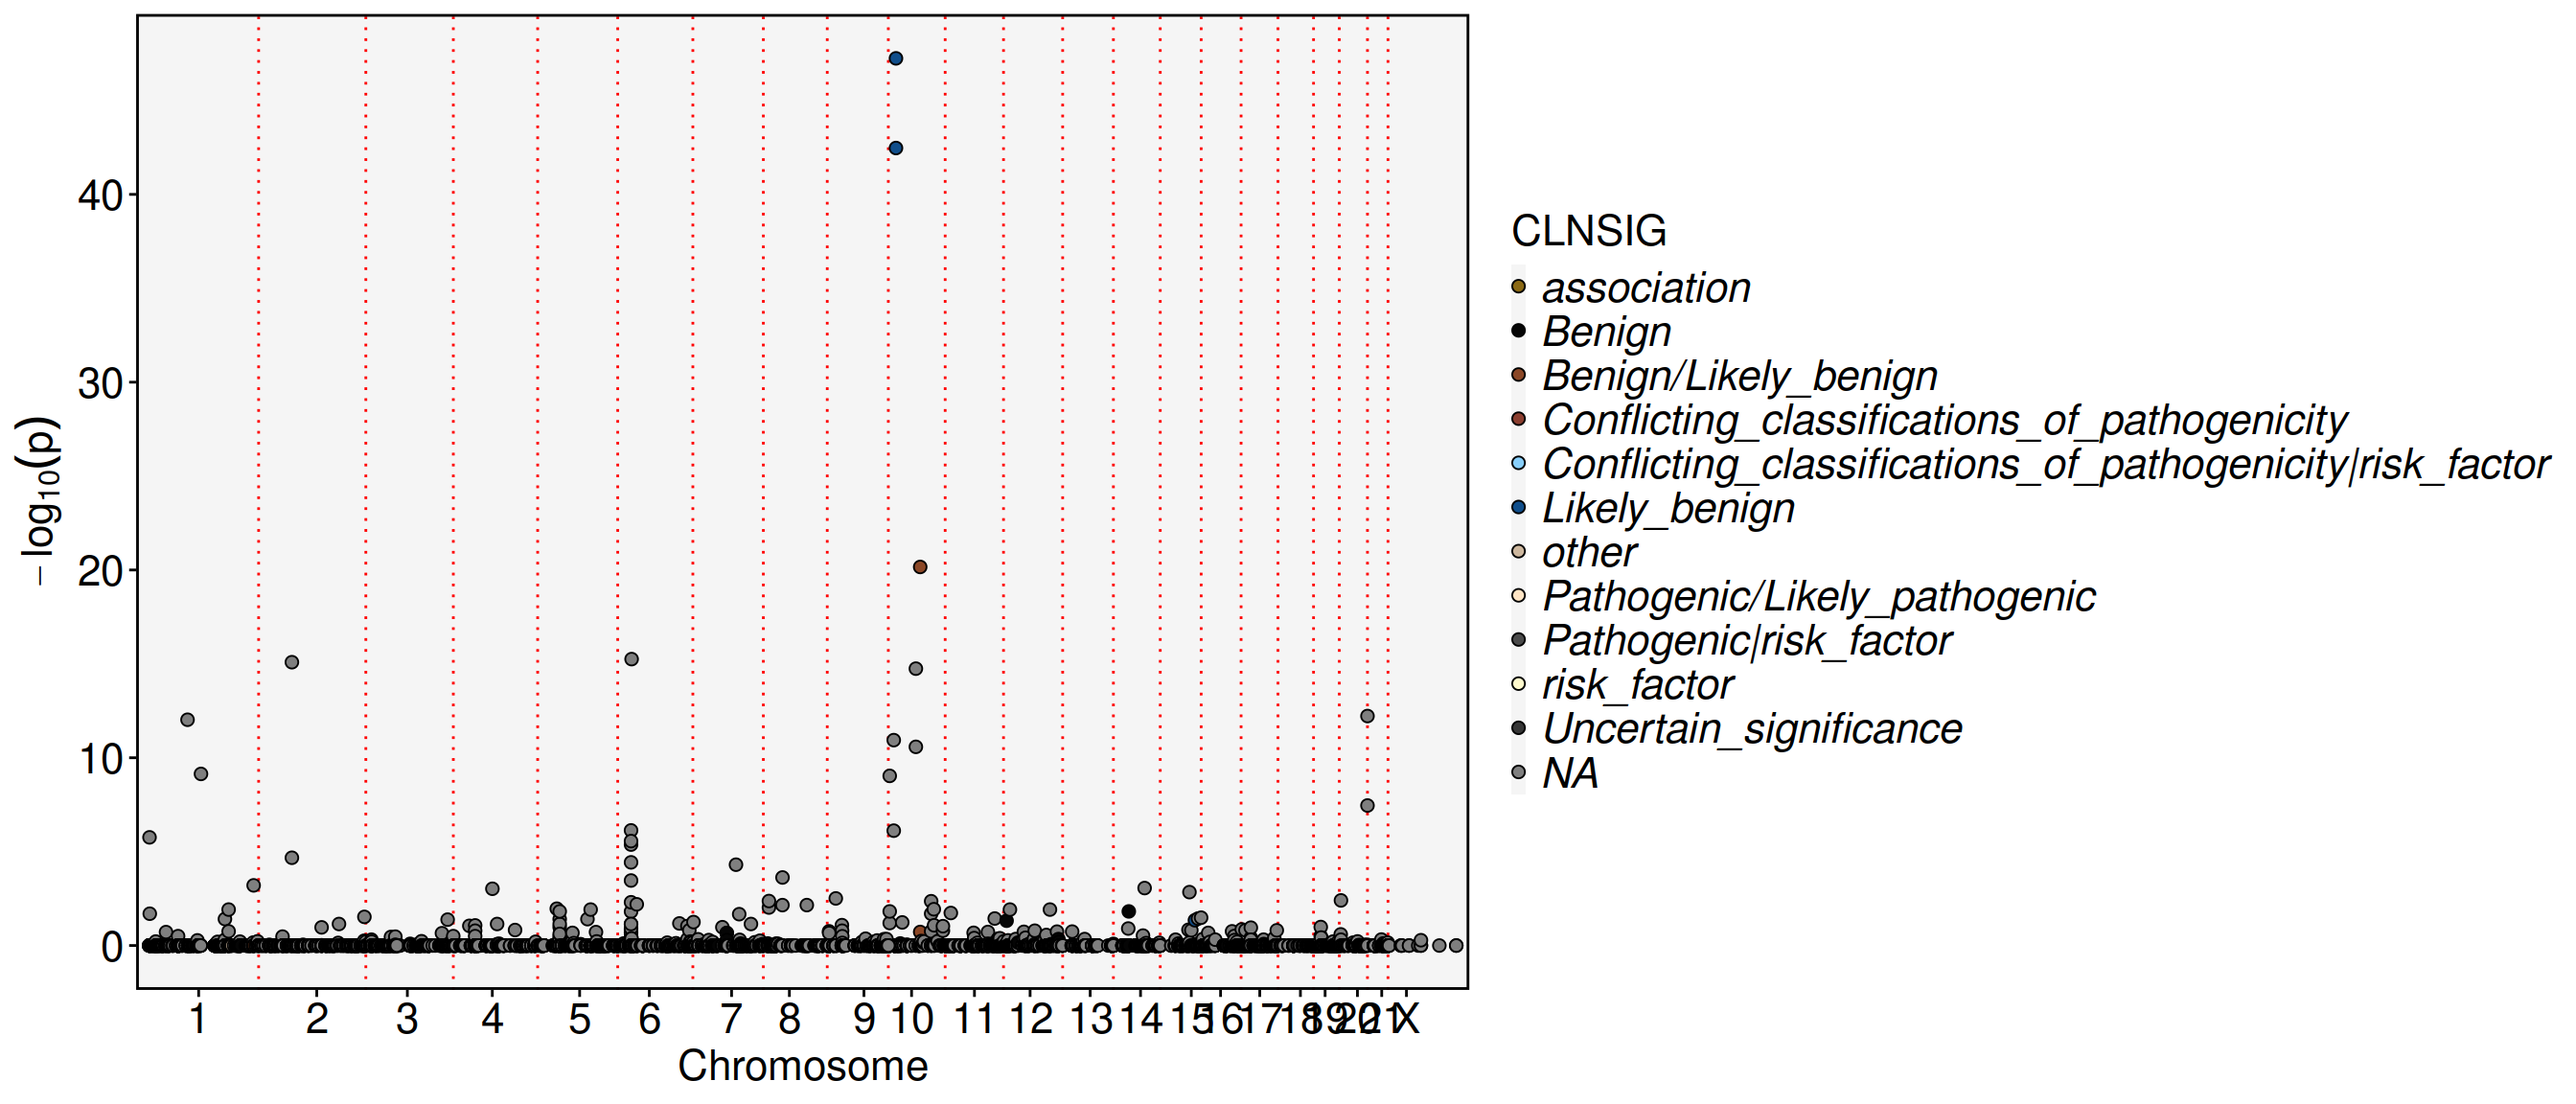
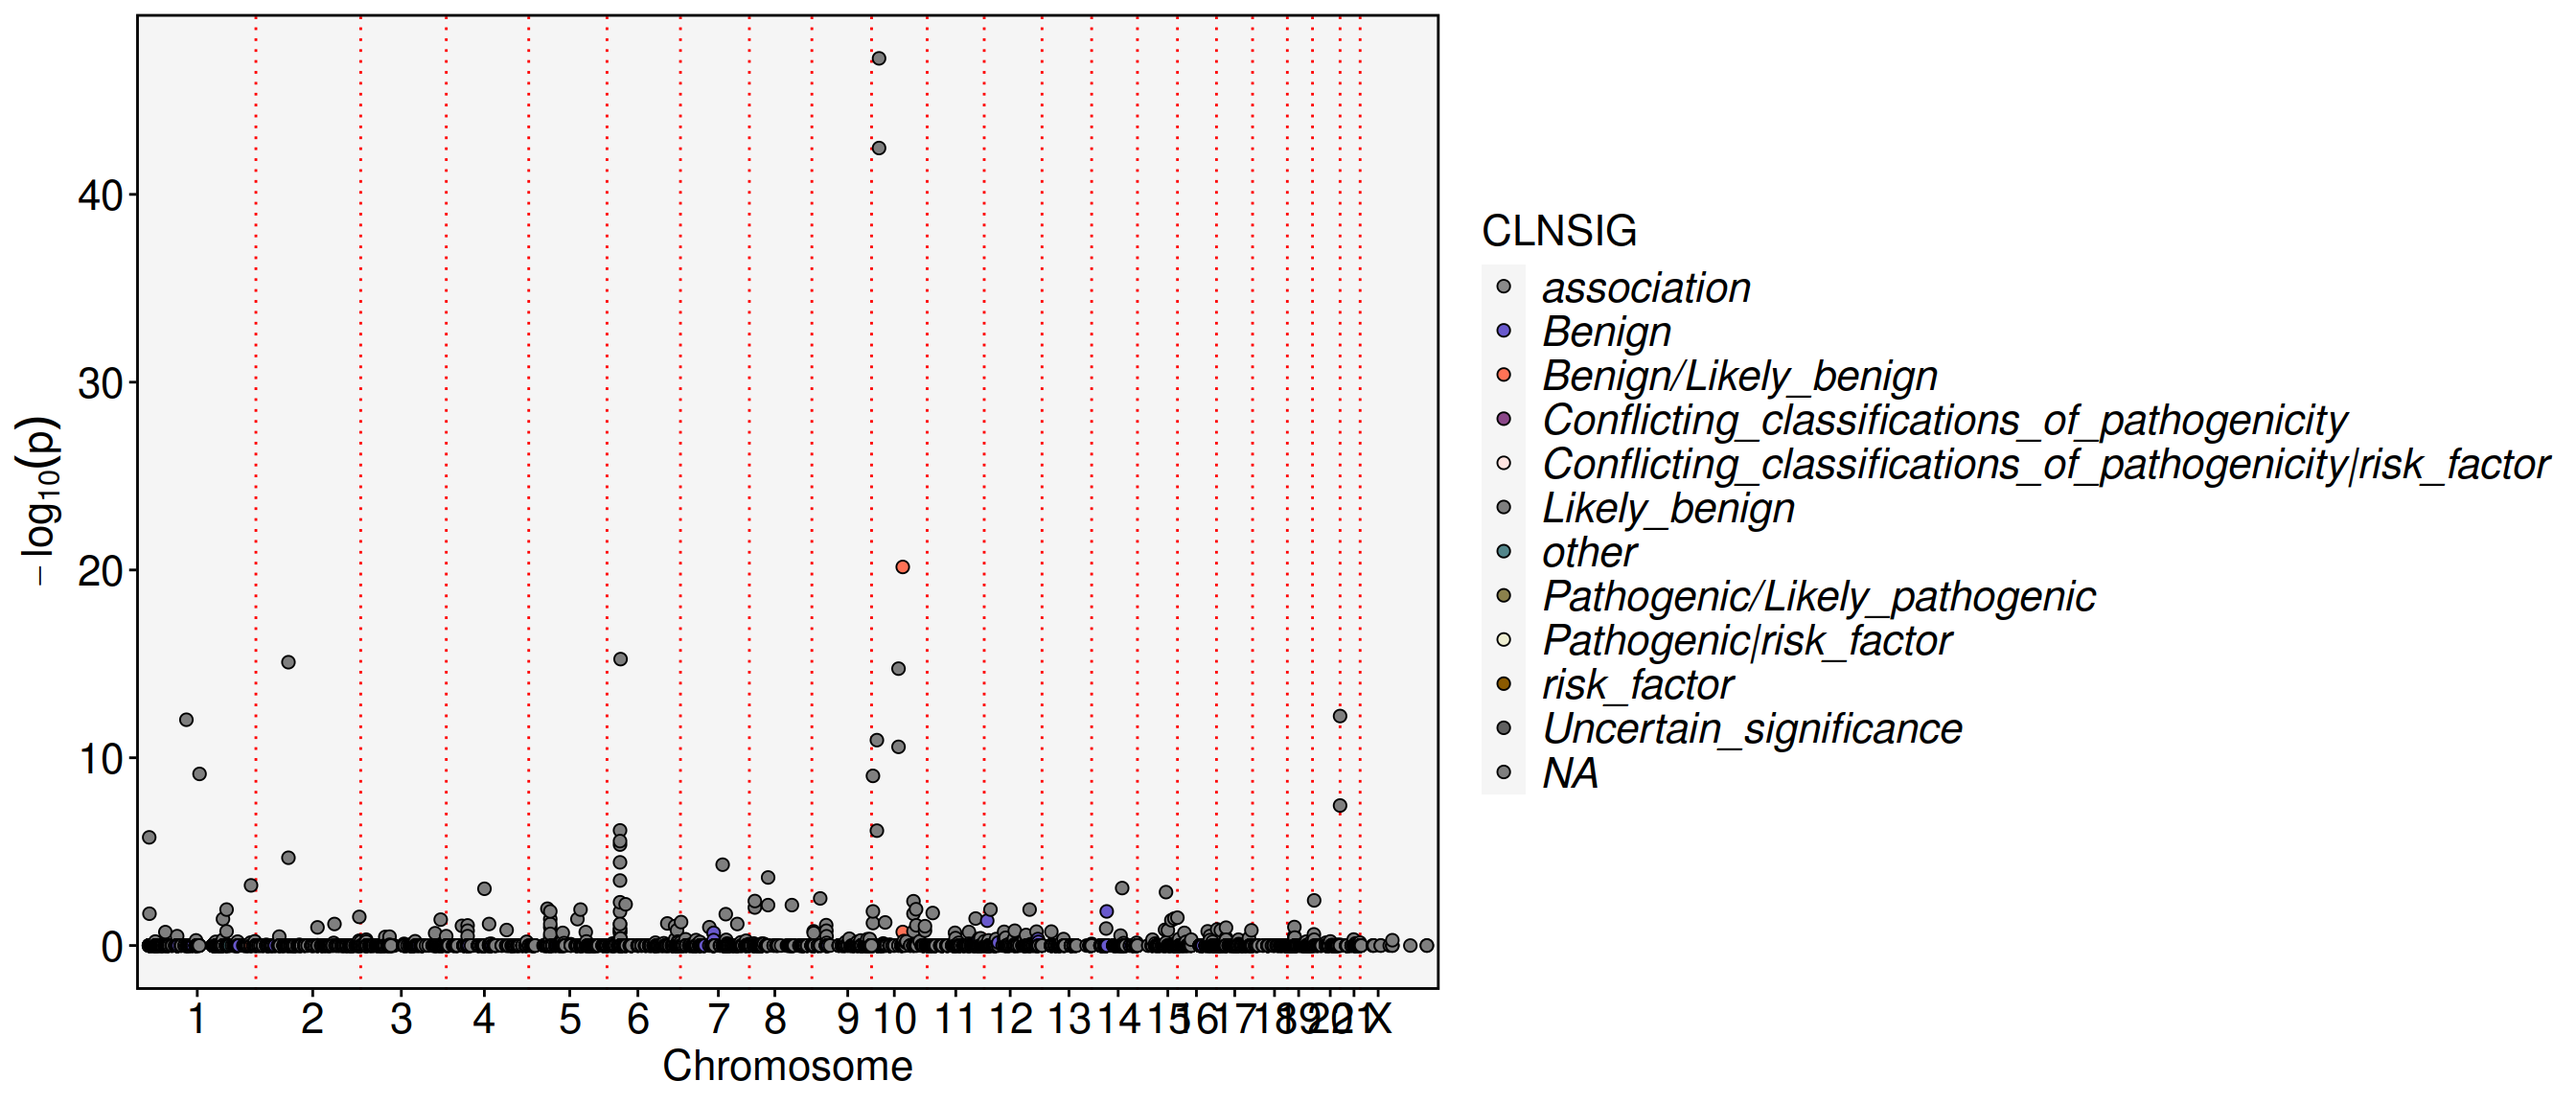
modified:   Yano_anno.Rmd 	modified:   docs/Yano_AS.html 	modified:   docs/Yano_ASE.html 	modified:   docs/Yano_anno.html 	modified:   docs/Yano_anno_files/figure-html/unnamed-chunk-6-1.png 	modified:   docs/search.json

diff --git a/docs/Yano_AS.html b/docs/Yano_AS.html
@@ -374,7 +374,7 @@ pre > code.sourceCode > span > a:first-child::before { text-decoration: underlin
 <pre><code>Run autocorrelation test for 117428 features.</code></pre>
 </div>
 <div class="cell-output cell-output-stderr">
-<pre><code>Runtime : 12.89299 secs</code></pre>
+<pre><code>Runtime : 11.20484 secs</code></pre>
 </div>
 <div class="sourceCode cell-code" id="cb20"><pre class="sourceCode r code-with-copy"><code class="sourceCode r"><span id="cb20-1"><a href="#cb20-1" aria-hidden="true" tabindex="-1"></a><span class="co"># Select autocorrleated features for downstream test.</span></span>
 <span id="cb20-2"><a href="#cb20-2" aria-hidden="true" tabindex="-1"></a>obj <span class="ot">&lt;-</span> <span class="fu">SetAutoCorrFeatures</span>(obj)</span></code><button title="Copy to Clipboard" class="code-copy-button"><i class="bi"></i></button></pre></div>
@@ -409,7 +409,7 @@ pre > code.sourceCode > span > a:first-child::before { text-decoration: underlin
 <pre><code>Use predefined weight matrix "WeightMatrix".</code></pre>
 </div>
 <div class="cell-output cell-output-stderr">
-<pre><code>Runtime : 1.71634 mins.</code></pre>
+<pre><code>Runtime : 1.714675 mins.</code></pre>
 </div>
 <div class="sourceCode cell-code" id="cb32"><pre class="sourceCode r code-with-copy"><code class="sourceCode r"><span id="cb32-1"><a href="#cb32-1" aria-hidden="true" tabindex="-1"></a><span class="co"># Now p values and adjusted p values have been generated</span></span>
 <span id="cb32-2"><a href="#cb32-2" aria-hidden="true" tabindex="-1"></a><span class="fu">head</span>(obj[[<span class="st">'exon'</span>]][[]]) <span class="sc">%&gt;%</span> knitr<span class="sc">::</span><span class="fu">kable</span>()</span></code><button title="Copy to Clipboard" class="code-copy-button"><i class="bi"></i></button></pre></div>
@@ -1216,9 +1216,9 @@ Adding another scale for colour, which will replace the existing scale.</code></
 <div class="cell">
 <div class="sourceCode cell-code" id="cb42"><pre class="sourceCode r code-with-copy"><code class="sourceCode r"><span id="cb42-1"><a href="#cb42-1" aria-hidden="true" tabindex="-1"></a>gtf <span class="ot">&lt;-</span> <span class="fu">gtf2db</span>(<span class="st">"./gencode.v44.annotation.gtf.gz"</span>)</span></code><button title="Copy to Clipboard" class="code-copy-button"><i class="bi"></i></button></pre></div>
 <div class="cell-output cell-output-stdout">
-<pre><code>[2024-10-06 11:03:49] [32mGTF loading..[0m
-[2024-10-06 11:04:26] [32mLoad 62700 genes.[0m
-[2024-10-06 11:04:26] [32mLoad time : 37.479 sec[0m</code></pre>
+<pre><code>[2024-10-06 11:14:12] [32mGTF loading..[0m
+[2024-10-06 11:14:49] [32mLoad 62700 genes.[0m
+[2024-10-06 11:14:49] [32mLoad time : 37.512 sec[0m</code></pre>
 </div>
 </div>
 <p>A track plot is used to study the read coverage per cell group. In the track plot shown below, the cell group is specified by the <code>cell.group</code> parameter. Unlike IGV, where read depth is used, we use UMI depth in this plot. The cell barcode tag and UMI tag are predefined as “CB” and “UB” with parameter <code>cell.tag</code> and <code>umi.tag</code>. For each cell group, the UMI depth has been normalized by the number of cells in that group. This means that the depth at each location can be interpreted as the mean UMI depth per cell for the group. As a result, the tracks are directly comparable across different cell groups. If <code>cell.group</code> is not set, the track plot will generate the raw UMI depth per location.</p>
@@ -1266,7 +1266,7 @@ Adding another scale for colour, which will replace the existing scale.</code></
 <pre><code>Run autocorrelation test for 15036 features.</code></pre>
 </div>
 <div class="cell-output cell-output-stderr">
-<pre><code>Runtime : 1.747558 secs</code></pre>
+<pre><code>Runtime : 1.783489 secs</code></pre>
 </div>
 <div class="sourceCode cell-code" id="cb51"><pre class="sourceCode r code-with-copy"><code class="sourceCode r"><span id="cb51-1"><a href="#cb51-1" aria-hidden="true" tabindex="-1"></a>obj <span class="ot">&lt;-</span> <span class="fu">SetAutoCorrFeatures</span>(obj)</span></code><button title="Copy to Clipboard" class="code-copy-button"><i class="bi"></i></button></pre></div>
 <div class="cell-output cell-output-stderr">
@@ -1304,7 +1304,7 @@ Adding another scale for colour, which will replace the existing scale.</code></
 <pre><code>Use predefined weight matrix "WeightMatrix".</code></pre>
 </div>
 <div class="cell-output cell-output-stderr">
-<pre><code>Runtime : 11.06378 secs.</code></pre>
+<pre><code>Runtime : 11.45616 secs.</code></pre>
 </div>
 <div class="sourceCode cell-code" id="cb65"><pre class="sourceCode r code-with-copy"><code class="sourceCode r"><span id="cb65-1"><a href="#cb65-1" aria-hidden="true" tabindex="-1"></a><span class="fu">FbtPlot</span>(obj, <span class="at">val=</span><span class="st">"gene_name.padj"</span>, <span class="at">remove.chr=</span><span class="cn">TRUE</span>, <span class="at">sel.chrs =</span> sel.chrs)</span></code><button title="Copy to Clipboard" class="code-copy-button"><i class="bi"></i></button></pre></div>
 <div class="cell-output-display">

diff --git a/docs/Yano_anno.html b/docs/Yano_anno.html
@@ -428,7 +428,7 @@ chr15:92992967C=/+                    Pathogenic</code></pre>
 ##contig=&lt;ID=NT_187693.1&gt;
 ##contig=&lt;ID=NW_009646201.1&gt;
 ##bcftools_viewVersion=1.13+htslib-1.13
-##bcftools_viewCommand=view clinvar.vcf.gz 15:92992967-92992967; Date=Sun Oct  6 11:05:37 2024
+##bcftools_viewCommand=view clinvar.vcf.gz 15:92992967-92992967; Date=Sun Oct  6 11:16:02 2024
 #CHROM  POS ID  REF ALT QUAL    FILTER  INFO
 15  92992967    633515  C   G   .   .   ALLELEID=621980;CLNDISDB=MedGen:CN517202;CLNDN=not_provided;CLNHGVS=NC_000015.10:g.92992967C&gt;G;CLNREVSTAT=criteria_provided,_single_submitter;CLNSIG=Pathogenic;CLNVC=single_nucleotide_variant;CLNVCSO=SO:0001483;GENEINFO=CHD2:1106;MC=SO:0001587|nonsense;ORIGIN=1;RS=2272457
 15  92992967    257709  C   T   .   .   AF_ESP=0.2485;AF_EXAC=0.22658;AF_TGP=0.19349;ALLELEID=255446;CLNDISDB=MeSH:D030342,MedGen:C0950123|MONDO:MONDO:0014150,MedGen:C3809278,OMIM:615369,Orphanet:1942,Orphanet:2382|MedGen:CN169374|MedGen:C3661900;CLNDN=Inborn_genetic_diseases|Developmental_and_epileptic_encephalopathy_94|not_specified|not_provided;CLNHGVS=NC_000015.10:g.92992967C&gt;T;CLNREVSTAT=criteria_provided,_multiple_submitters,_no_conflicts;CLNSIG=Benign;CLNVC=single_nucleotide_variant;CLNVCSO=SO:0001483;CLNVI=ClinGen:CA7748248;GENEINFO=CHD2:1106;MC=SO:0001819|synonymous_variant;ORIGIN=1;RS=2272457</code></pre>
@@ -455,7 +455,7 @@ chr15:92992967C=/+                    Pathogenic</code></pre>
 <p>Note that not all reads from this gene cover the SNV, which results in the SNV expression being sparser compared to the overall gene expression. Moreover, it also possible to map the clinical significant labels or other tags to the Manhatten plot.</p>
 <div class="cell" data-layout-align="center">
 <div class="sourceCode cell-code" id="cb22"><pre class="sourceCode r code-with-copy"><code class="sourceCode r"><span id="cb22-1"><a href="#cb22-1" aria-hidden="true" tabindex="-1"></a>sel.chrs <span class="ot">&lt;-</span> <span class="fu">c</span>(<span class="dv">1</span><span class="sc">:</span><span class="dv">21</span>, <span class="st">"X"</span>)</span>
-<span id="cb22-2"><a href="#cb22-2" aria-hidden="true" tabindex="-1"></a><span class="fu">FbtPlot</span>(obj, <span class="at">val =</span> <span class="st">"locus.padj"</span>, <span class="at">remove.chr =</span> <span class="cn">TRUE</span>, <span class="at">sel.chrs =</span> sel.chrs, <span class="at">col.by =</span> <span class="st">"CLNSIG"</span>, <span class="at">pt.size =</span> <span class="dv">2</span>) <span class="sc">+</span> <span class="fu">theme</span>(<span class="at">legend.key.width =</span> <span class="fu">unit</span>(<span class="dv">1</span>, <span class="st">'mm'</span>))</span></code><button title="Copy to Clipboard" class="code-copy-button"><i class="bi"></i></button></pre></div>
+<span id="cb22-2"><a href="#cb22-2" aria-hidden="true" tabindex="-1"></a><span class="fu">FbtPlot</span>(obj, <span class="at">val =</span> <span class="st">"locus.padj"</span>, <span class="at">remove.chr =</span> <span class="cn">TRUE</span>, <span class="at">sel.chrs =</span> sel.chrs, <span class="at">col.by =</span> <span class="st">"CLNSIG"</span>, <span class="at">pt.size =</span> <span class="dv">2</span>)</span></code><button title="Copy to Clipboard" class="code-copy-button"><i class="bi"></i></button></pre></div>
 <div class="cell-output-display">
 <div class="quarto-figure quarto-figure-center">
 <figure class="figure">

diff --git a/docs/Yano_ASE.html b/docs/Yano_ASE.html
@@ -234,9 +234,9 @@ Centering and scaling data matrix</code></pre>
 <span id="cb7-7"><a href="#cb7-7" aria-hidden="true" tabindex="-1"></a><span class="co"># you can skip to read GTF again if you already load it</span></span>
 <span id="cb7-8"><a href="#cb7-8" aria-hidden="true" tabindex="-1"></a>gtf <span class="ot">&lt;-</span> <span class="fu">gtf2db</span>(<span class="st">"./gencode.v44.annotation.gtf.gz"</span>)</span></code><button title="Copy to Clipboard" class="code-copy-button"><i class="bi"></i></button></pre></div>
 <div class="cell-output cell-output-stdout">
-<pre><code>[2024-10-06 10:59:00] [32mGTF loading..[0m
-[2024-10-06 10:59:36] [32mLoad 62700 genes.[0m
-[2024-10-06 10:59:36] [32mLoad time : 35.861 sec[0m</code></pre>
+<pre><code>[2024-10-06 11:09:31] [32mGTF loading..[0m
+[2024-10-06 11:10:04] [32mLoad 62700 genes.[0m
+[2024-10-06 11:10:04] [32mLoad time : 32.705 sec[0m</code></pre>
 </div>
 <div class="sourceCode cell-code" id="cb9"><pre class="sourceCode r code-with-copy"><code class="sourceCode r"><span id="cb9-1"><a href="#cb9-1" aria-hidden="true" tabindex="-1"></a><span class="co"># At this moment the meta infomation for genetic variant assay is still empty</span></span>
 <span id="cb9-2"><a href="#cb9-2" aria-hidden="true" tabindex="-1"></a>obj[[<span class="st">'var'</span>]][[]] <span class="sc">%&gt;%</span> head</span></code><button title="Copy to Clipboard" class="code-copy-button"><i class="bi"></i></button></pre></div>
@@ -370,7 +370,7 @@ Centering and scaling data matrix</code></pre>
 <pre><code>Run autocorrelation test for 41427 features.</code></pre>
 </div>
 <div class="cell-output cell-output-stderr">
-<pre><code>Runtime : 4.067927 secs</code></pre>
+<pre><code>Runtime : 3.920989 secs</code></pre>
 </div>
 <div class="sourceCode cell-code" id="cb20"><pre class="sourceCode r code-with-copy"><code class="sourceCode r"><span id="cb20-1"><a href="#cb20-1" aria-hidden="true" tabindex="-1"></a>obj <span class="ot">&lt;-</span> <span class="fu">SetAutoCorrFeatures</span>(obj)</span></code><button title="Copy to Clipboard" class="code-copy-button"><i class="bi"></i></button></pre></div>
 <div class="cell-output cell-output-stderr">
@@ -405,7 +405,7 @@ Centering and scaling data matrix</code></pre>
 <pre><code>Use predefined weight matrix "WeightMatrix".</code></pre>
 </div>
 <div class="cell-output cell-output-stderr">
-<pre><code>Runtime : 38.13929 secs.</code></pre>
+<pre><code>Runtime : 37.54196 secs.</code></pre>
 </div>
 <div class="sourceCode cell-code" id="cb32"><pre class="sourceCode r code-with-copy"><code class="sourceCode r"><span id="cb32-1"><a href="#cb32-1" aria-hidden="true" tabindex="-1"></a>sel.chrs <span class="ot">&lt;-</span> <span class="fu">c</span>(<span class="dv">1</span><span class="sc">:</span><span class="dv">21</span>, <span class="st">"X"</span>)</span>
 <span id="cb32-2"><a href="#cb32-2" aria-hidden="true" tabindex="-1"></a><span class="fu">FbtPlot</span>(obj, <span class="at">val =</span> <span class="st">"locus.padj"</span>, <span class="at">remove.chr =</span> <span class="cn">TRUE</span>, <span class="at">sel.chrs =</span> sel.chrs)</span></code><button title="Copy to Clipboard" class="code-copy-button"><i class="bi"></i></button></pre></div>
